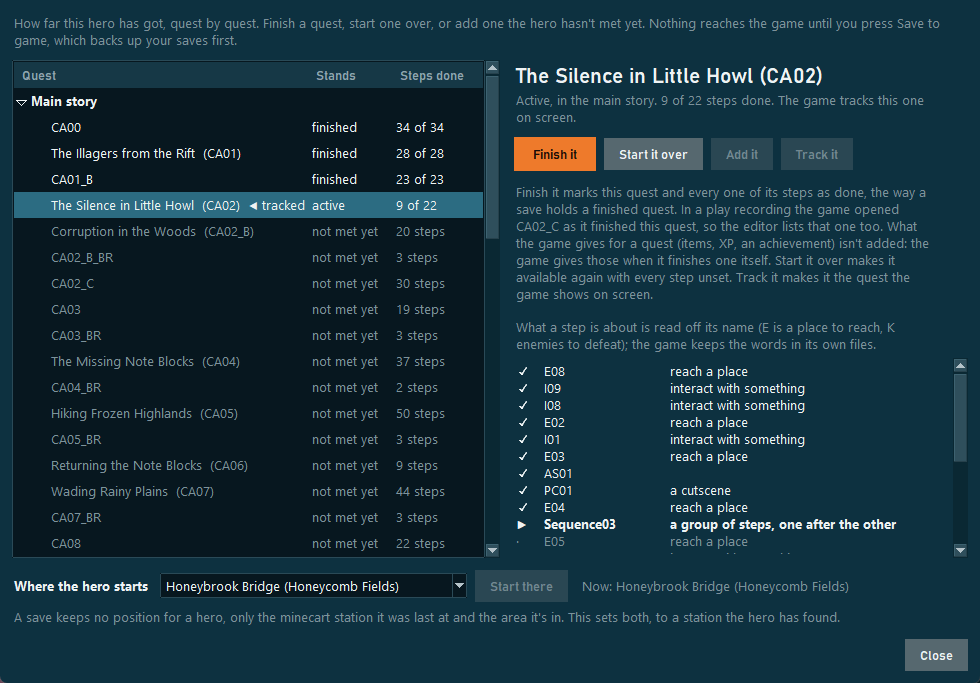
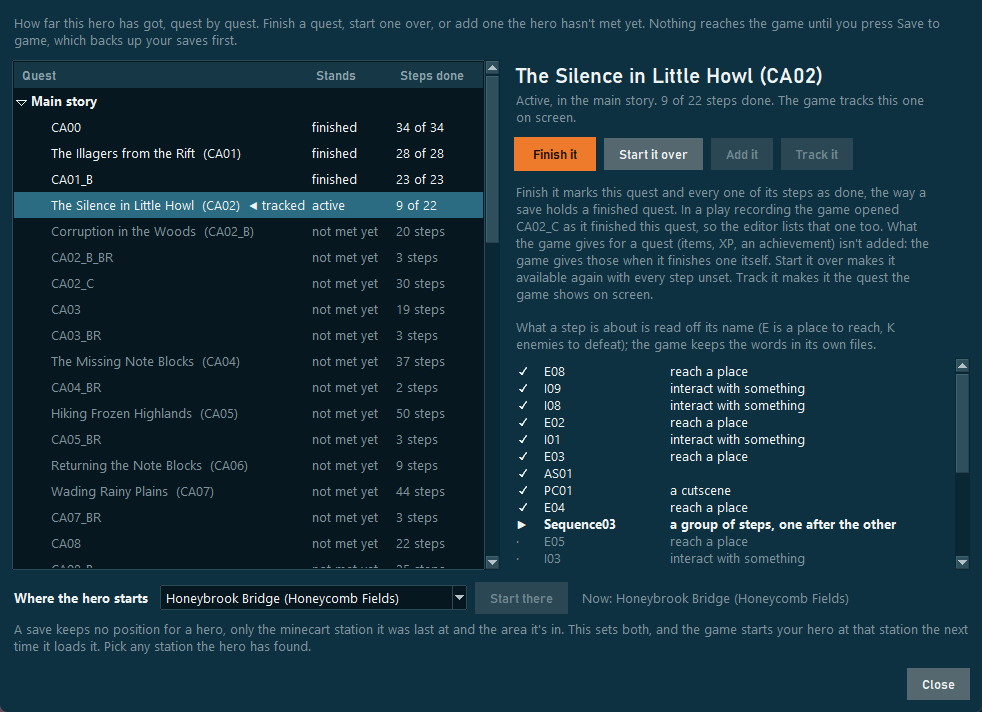
1.16.0's notes, changelog and README: the checks in the game, Suggest something, the menu, Buddy Brew

diff --git a/CHANGELOG.md b/CHANGELOG.md
@@ -4,12 +4,12 @@ Every version of the MCD2 Save Editor and what changed in it, in full, newest fi
 
 The short notes for the newest versions are on the
 [releases page](https://github.com/IshiakiZ/mcd2-save-editor/releases), and in the editor under
-**Menu → What's new…**. What the editor does is in the
+**Menu → Updates → What's new…**. What the editor does is in the
 [wiki](https://github.com/IshiakiZ/mcd2-save-editor/wiki/Features).
 
 ## 1.16.0
 
-- **Story progress.** **Menu → Story progress…** (and a button on Advanced mode's Help page) opens a window with
+- **Story progress.** **Menu → World → Story progress…** (and a button on Advanced mode's Help page) opens a window with
   every quest of the hero on screen, group by group: the main story, each area's side quests, and the rest. It
   shows how each quest stands (not open yet, available, active, finished), how many of its steps are done, the
   quest the game tracks on screen, and every step of the quest you pick with what it's about where its name says
@@ -30,11 +30,16 @@ The short notes for the newest versions are on the
 - **What follows a quest.** When the game finishes a quest it lists the quests that open next. The developer's
   play recordings caught it doing that six times (The Illagers from the Rift opens three quests, for one), and
   where the editor has seen it, **Finish it** lists those quests too. Replayed against those recordings, the
-  editor's finished quest is the same as the game's in all six. For every other quest the editor doesn't know
-  yet what the game opens after it, and says so: if the game doesn't open the next quest by itself, **Add it**
-  does.
+  editor's finished quest is the same as the game's in all six. For every other quest the game does it: it
+  opens the quests that follow the next time it loads the hero.
+- **Checked in the game** (1.1.2.0). With The Missing Note Blocks finished in the editor, the game loaded the
+  hero and opened the four quests that follow by itself: Wading Rainy Plains as the active main quest, and three
+  more as available. It gave no item, XP or achievement for the finished quest, and the story played on from
+  there.
 - **Where the hero starts.** A save keeps no position for a hero, only the minecart station it was last at and
-  the area it's in. The same window sets both, to a station the hero has found or to the town's fountain.
+  the area it's in. The same window sets both, to a station the hero has found or to the town's fountain, and
+  the game starts the hero there the next time it loads it. Checked in the game: a hero saved in Howling Woods
+  and set to the Frozen Fortress was standing in Frozen Highlands when the game loaded it.
 - **The editor learns more from recordings and lists.** The play recorder now notes which quests the game made
   available in the save that finished a quest, and **Share item IDs…** tells that with the rest of what your
   recordings saw. It notes that only for a save the game itself wrote: the editor finishes and adds quests too,
@@ -46,6 +51,23 @@ The short notes for the newest versions are on the
   like every other change.
 - **The list of changes before saving** says what was done to the story in plain words: a quest finished, started
   over or added, the quest tracked, and where the hero starts.
+- **A shorter menu.** Simple mode's menu had grown to twenty lines. What belongs together is in a submenu now, the
+  way the two looks already were: **Pictures** (Get item pictures…, Don't get item pictures automatically, Open the
+  pictures folder), **World** (World map…, Story progress…, Play recorder…), **Share and suggest** (Share item
+  IDs…, Suggest something…) and **Updates** (Check for updates, What's new…). Launching the game, reloading,
+  opening a save folder, the backups and Connect an AI (MCP)… are where they were.
+- **Suggest something.** **Menu → Share and suggest → Suggest something…** (and a line on Advanced mode's Help page) opens a box to
+  write an idea for the editor in, or what it gets wrong. **Open a GitHub issue…** takes it to the editor's page
+  on GitHub in your browser, filled in, for you to send; **Copy** puts it on the clipboard for anywhere else. A
+  line about the editor goes with it (its version, which kind of saves are open, the mode and the look), unless
+  you untick it. The editor sends nothing itself, and nothing of your saves is in it. What you wrote stays in
+  the box until the editor closes.
+- **Buddy Brew can be put on armor,** at tier III. A list on
+  [issue 34](https://github.com/IshiakiZ/mcd2-save-editor/issues/34) has it on Monstrosity Horns, saved as
+  `PotionSharing` with the number 6, where the game's table says the brew lasts 6 seconds at that tier. No version
+  of the editor had it to write, and its sender, [icicle1133](https://github.com/icicle1133), says the Enchantsmith
+  put it on. The Companion support kit, whose build names Buddy Brew, now puts it on its armor. That makes 28 of the 32
+  enchantments, 35 tiers. Left: Frost Crescent, Shadowcloak, Shielding Smite and Tumbleshot.
 
 ## 1.15.4
 

diff --git a/README.md b/README.md
@@ -30,13 +30,13 @@ lists of item IDs the editor makes for you, in [Issues](https://github.com/Ishia
   six complete builds, in one click.
 - **World map and play recorder:** see the ground your hero has explored and how far it has got, and write down
   what the game saves while you play.
-- **Story progress:** every quest with its steps. Finish a quest, start one over or add one, and set the minecart
-  station your hero starts at.
+- **Story progress:** every quest with its steps. Finish a quest, start one over or add one, and start your hero
+  at any minecart station it has found.
 - **Let an AI do it:** connect Claude or another AI assistant [over MCP](#let-an-ai-customise-your-hero-mcp) and
   ask for what you want.
 - **Safe saving:** a backup before every save, one-click restore, and no saving while the game runs.
-- **And more:** Simple and Advanced modes, sorting and filters, item pictures, a **Launch game** button, and an
-  **Update** button when a newer version is out.
+- **And more:** Simple and Advanced modes, sorting and filters, item pictures, a **Launch game** button, an
+  **Update** button when a newer version is out, and **Suggest something…** for your ideas.
 
 Every feature, in detail: **[Features](https://github.com/IshiakiZ/mcd2-save-editor/wiki/Features)** in the wiki.
 
@@ -48,11 +48,11 @@ Every feature, in detail: **[Features](https://github.com/IshiakiZ/mcd2-save-edi
 |---|---|
 | ![Simple mode in the Liquid Glass look](docs/screenshots/inventory-glass.png) | ![Advanced mode](docs/screenshots/advanced-mode.png) |
 
-| The world map (Menu → World map…) | The play recorder (Menu → Play recorder…) |
+| The world map (Menu → World → World map…) | The play recorder (Menu → World → Play recorder…) |
 |---|---|
 | ![The world map: the ground a hero has explored, its doors, and how far it has got](docs/screenshots/world-map.png) | ![The play recorder writing down what the game saved](docs/screenshots/play-recorder.png) |
 
-| Story progress (Menu → Story progress…) |
+| Story progress (Menu → World → Story progress…) |
 |---|
 | ![Story progress: a hero's quests and steps, with the buttons that change them](docs/screenshots/story-progress.png) |
 
@@ -92,9 +92,9 @@ your zip is that build. The details are in
 
 The editor never sends your saves, your hero's data or anything about you anywhere. It goes online for these things
 only. When it opens, it asks GitHub whether a newer version is out, and it gets the game's item pictures from
-batch-ly.com, the developer's own site, if this PC hasn't got them yet (**Menu → Don't get item pictures
-automatically** turns that off). **Update** downloads the new version. **Get item pictures…** fetches pictures
-when you ask: from batch-ly.com, or from minecraft.wiki if they aren't there.
+batch-ly.com, the developer's own site, if this PC hasn't got them yet (**Menu → Pictures → Don't get item
+pictures automatically** turns that off). **Update** downloads the new version. **Get item pictures…** fetches
+pictures when you ask: from batch-ly.com, or from minecraft.wiki if they aren't there.
 [More](https://github.com/IshiakiZ/mcd2-save-editor/wiki/Safety-and-privacy#privacy).
 
 ## Let an AI customise your hero (MCP)
@@ -129,14 +129,14 @@ your sign-in, account or device data.
   with **offline** heroes.
 - **Anything it hasn't seen in a real save.** The game's own lists are in its encrypted files, which the editor
   doesn't break, so it learns how things are saved from players' saves. So far: all 180 items and 116 Uniques, all
-  60 gear effects, all 32 enchantment books, and 27 of the 32 enchantments. An effect tier nobody has sent yet is
+  60 gear effects, all 32 enchantment books, and 28 of the 32 enchantments. An effect tier nobody has sent yet is
   marked as not seen, and the editor asks before adding it. **Share item IDs…** makes a list of what your saves
   add; nothing is sent unless you send it.
-- **Still missing:** five enchantments and some tiers of the others, and levelling a companion's talisman outright
+- **Still missing:** four enchantments and some tiers of the others, and levelling a companion's talisman outright
   (**Ready to level up** leaves it one XP short, and the game does the rest).
 - **A quest step by step.** The editor finishes, starts over and adds whole quests. It can't move a quest on by
-  one step, it gives none of what the game gives for a quest (items, XP), and for most quests it doesn't know yet
-  which quests the game opens next: **Add it** lists those by hand.
+  one step, and it gives none of what the game gives for a quest (items, XP). The game opens the quests that
+  follow a finished one by itself.
 - **The map.** A preset adds minecart stations; the rest of the map stays as the game saved it. The world map and
   the play recorder only show what's there, and can't see a chest or a secret you haven't touched.
 - **Collections and achievements.** The editor leaves the game's own records alone: a book added here counts for

diff --git a/dungeons2_editor/data/release-notes.md b/dungeons2_editor/data/release-notes.md
@@ -1,16 +1,19 @@
 ## What's new in 1.16.0
 
-- **Story progress.** A new window, **Menu → Story progress…**, lists every quest with its steps. Finish a quest, start one over, add one your hero hasn't met, or pick the quest the game tracks.
+- **Story progress.** A new window, **Menu → World → Story progress…**, lists every quest with its steps. Finish a quest, start one over, add one your hero hasn't met, or pick the quest the game tracks.
 
   ![Story progress: a hero's quests and steps, with the buttons that change them](https://raw.githubusercontent.com/IshiakiZ/mcd2-save-editor/v1.16.0/dungeons2_editor/data/whats-new/1.16.0-story.png)
-- **It writes a quest the way a save holds one,** and none of what the game gives for it: no items, no XP, no achievement.
-- **Where your hero starts.** The same window sets the minecart station the save says your hero was last at, out of the ones it has found.
+- **It writes a quest the way a save holds one,** and none of what the game gives for it: no items, no XP, no achievement. Checked in the game: it opens the quests that follow by itself.
+- **Start at any minecart station you've found.** Pick one under **Where the hero starts** in the same window, and the game starts your hero there. Checked in the game.
 - **The editor learns what a quest opens.** **Share item IDs…** now tells which quests your recordings saw the game open after one, and the number saved with a finished step.
 - **An AI assistant can do the same,** with three new tools: `list_quests`, `change_quest` and `start_at_station`.
+- **Suggest something.** **Menu → Share and suggest → Suggest something…** is a place to leave an idea for the editor, or to say what it gets wrong.
+- **A shorter menu.** Pictures, World, Share and suggest, and Updates are submenus now, like Look.
+- **Buddy Brew can be put on armor,** at tier III, on [icicle1133](https://github.com/icicle1133)'s word. Four of the 32 enchantments are left.
 
 ## What's new in 1.15.4
 
-- **The game's own item pictures.** The editor now gets them by itself when it opens, for every item but one. **Menu → Don't get item pictures automatically** turns that off. <!-- online -->
+- **The game's own item pictures.** The editor now gets them by itself when it opens, for every item but one. **Menu → Pictures → Don't get item pictures automatically** turns that off. <!-- online -->
 
   ![The editor showing the game's item pictures](https://raw.githubusercontent.com/IshiakiZ/mcd2-save-editor/v1.15.4/dungeons2_editor/data/whats-new/1.15.4-pictures.png)
 - **What's new can show pictures.** After an update it waits for you to close it, so the news isn't missed.
